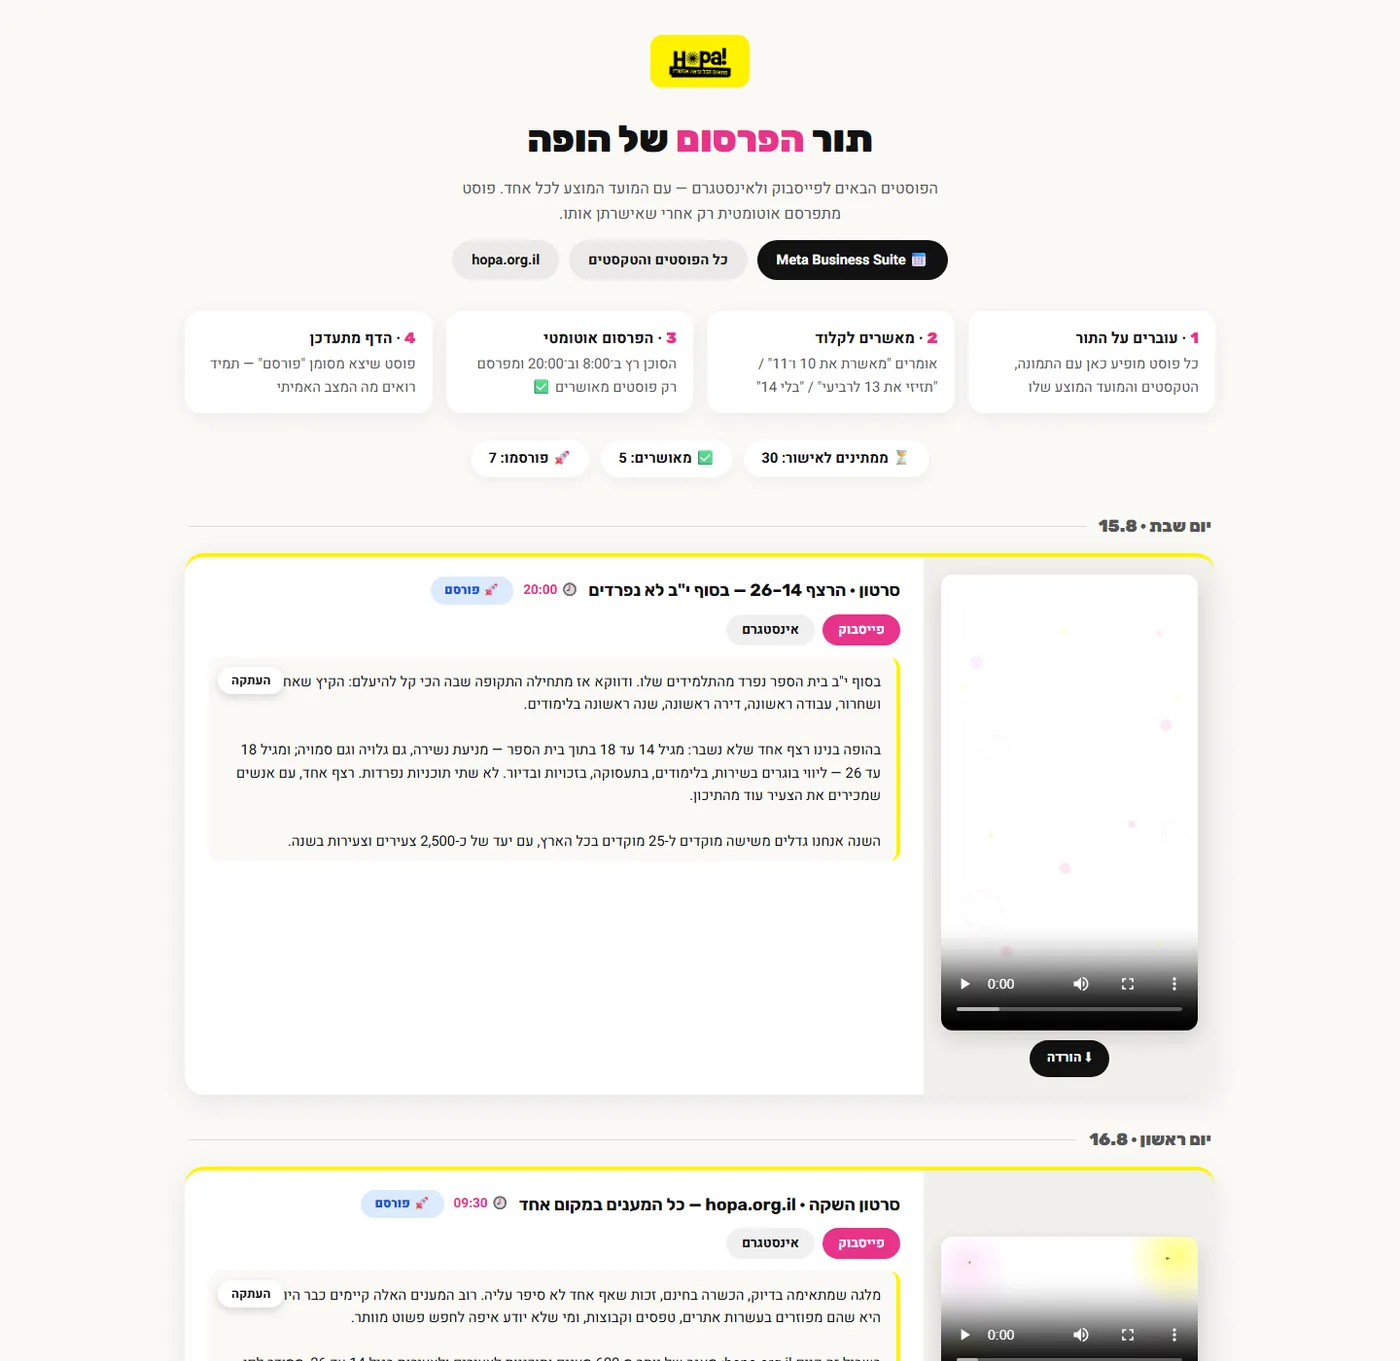
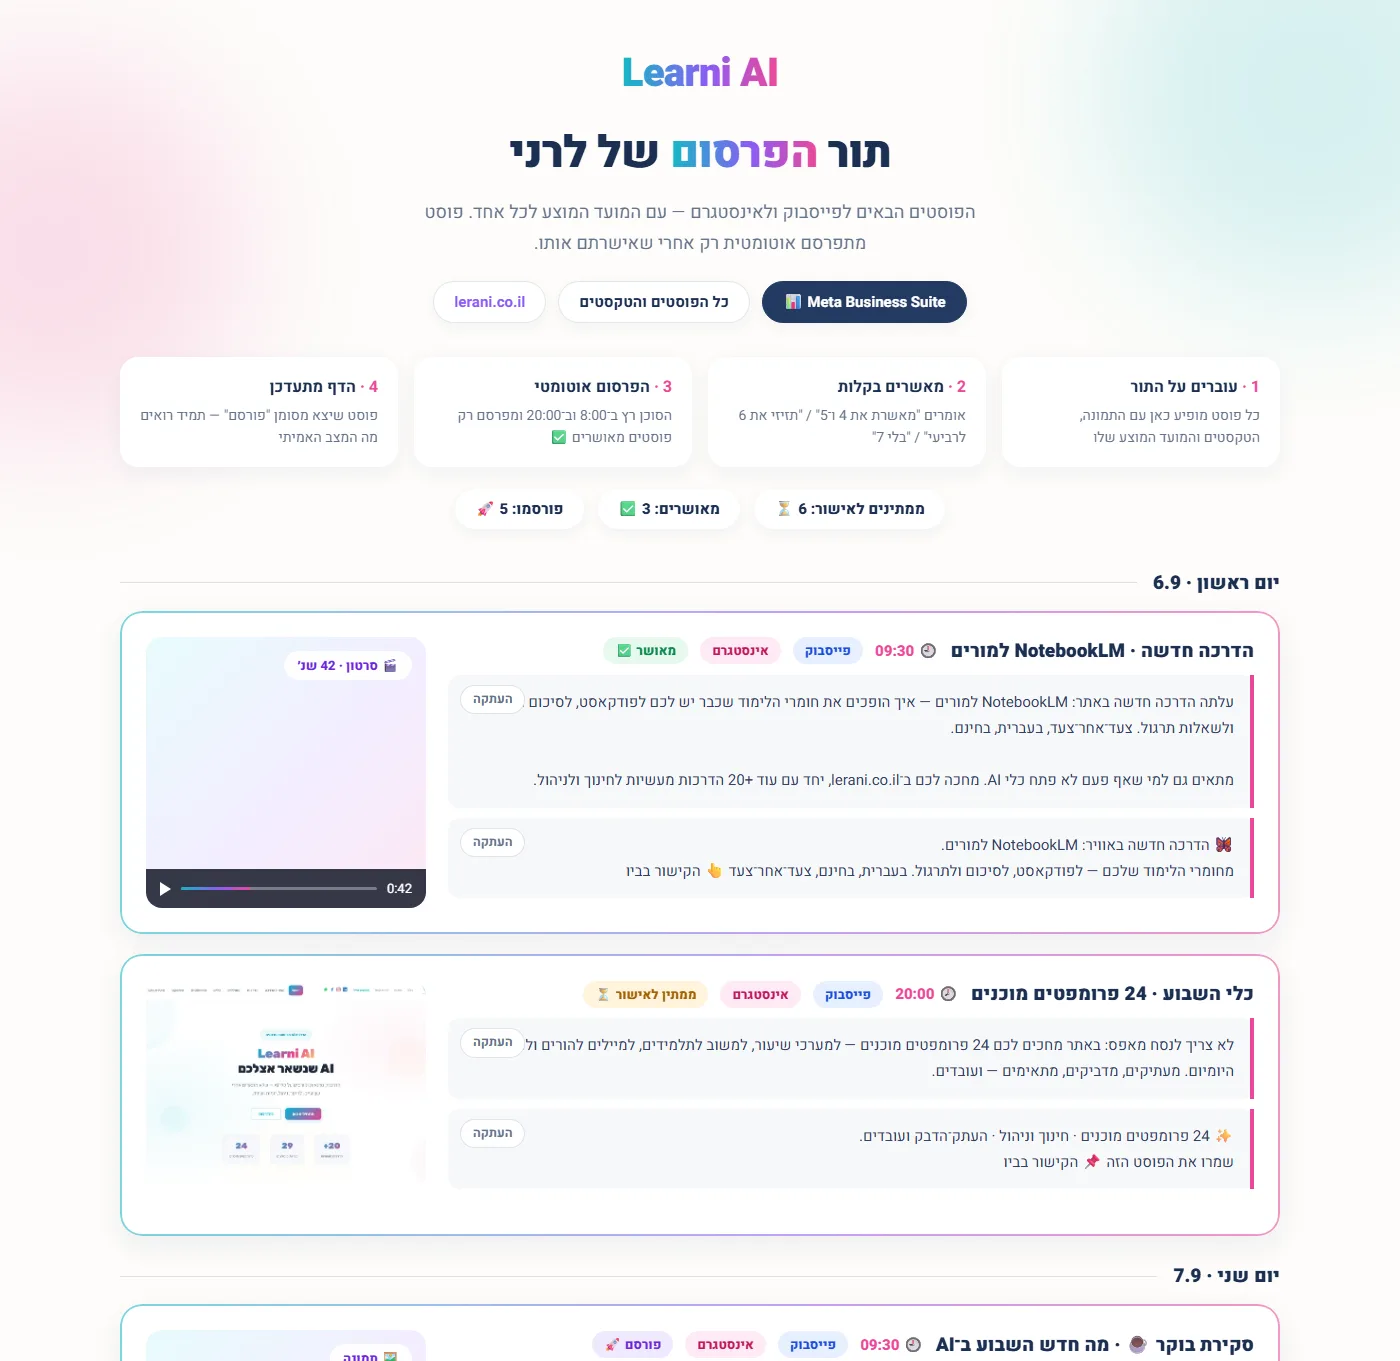
fix(scheduler): דוגמת Learni AI במקום הופה — בכל האתר
- שלושת צילומי המסך של תזמון פוסטים הוחלפו בתור פרסום ממותג Learni AI
  (lerani.co.il) — אין יותר תוכן/לוגו של הופה באתר.
- טקסטים בדף המוצר עודכנו בהתאם, וללא אזכור הופה.
- נוסף חיבור לערכת המותג הארגונית (קישור לחוות האפליקציות).
- README: מיטל אישרה את הכלל — הופה לא מופיעה באתר אלא באישור מפורש שלה.

diff --git a/site/products/scheduler.html b/site/products/scheduler.html
@@ -42,7 +42,7 @@
     <figure class="pshot tall">
       <img src="../../public/products/scheduler/full.webp" alt="תור הפרסום — הפוסטים הבאים עם תמונה, טקסט ומועד">
     </figure>
-    <p class="pcap">תור הפרסום של הופה — כל פוסט עם המדיה, הטקסט והמועד המוצע שלו</p>
+    <p class="pcap">תור הפרסום — כל פוסט עם המדיה, הטקסט והמועד המוצע שלו. בדוגמה: התור של Learni AI, מותג ההדרכות שלנו</p>
   </div>
 </header>
 
@@ -51,7 +51,7 @@
     <div class="psec-head">
       <div class="psec-label">מה המערכת עושה</div>
       <h2>הפוסט כבר מוכן — <em>נשאר רק לאשר</em></h2>
-      <p class="psec-sub">הכלי הזה נבנה עבור הופה, תוכנית לליווי צעירים. הוא מנהל תור פרסום חי לשתי רשתות, עם מדיה, טקסטים ומועדים.</p>
+      <p class="psec-sub">המערכת מנהלת תור פרסום חי לשתי רשתות, עם מדיה, טקסטים ומועדים. בדוגמאות כאן: התור של Learni AI — מותג ההדרכות שלנו, lerani.co.il.</p>
     </div>
     <div class="pgrid"><article class="pcard">
         <div class="ptile" aria-hidden="true">📅</div>
@@ -84,7 +84,7 @@
     </div>
     <div class="pgal"><figure>
         <div class="pshot"><img src="../../public/products/scheduler/posts.webp" alt="כרטיס פוסט — הכל במקום אחד" loading="lazy"></div>
-        <figcaption><b>כרטיס פוסט — הכל במקום אחד</b> — לכל פוסט: היום והשעה, הסרטון או התמונה, הטקסט לפייסבוק והטקסט לאינסטגרם בנפרד, כפתור העתקה, וסימון &quot;פורסם&quot; ברגע שהוא יצא.</figcaption>
+        <figcaption><b>כרטיס פוסט — הכל במקום אחד</b> — לכל פוסט: היום והשעה, הסרטון או התמונה, הטקסט לפייסבוק והטקסט לאינסטגרם בנפרד, כפתור העתקה, וסטטוס חי: ממתין לאישור · מאושר · פורסם.</figcaption>
       </figure>
       <figure>
         <div class="pshot"><img src="../../public/products/scheduler/queue.webp" alt="ארבעה שלבים ומונה אחד" loading="lazy"></div>
@@ -103,6 +103,7 @@
       <div>מנהלי ומנהלות שיווק בארגון קטן</div>
       <div>בתי ספר ורשתות חינוך</div>
       <div>כל מי שהתוכן מוכן ואין מי שילחץ פרסם</div></div>
+    <p class="psec-sub" style="margin-top:26px">תזמון הפוסטים משתלב גם כחלק מ<a href="apps-farm.html" style="color:var(--accent);font-weight:700">ערכת המותג הארגונית</a> — אותה שפה גרפית ואותם מסרים, מהלוגו ועד הפוסט המתוזמן.</p>
   </div>
 </section>
 

diff --git a/README_IMPACT_SO.md b/README_IMPACT_SO.md
@@ -13,6 +13,10 @@ Main brand rules:
   - 29.8.2026: Meytal was shown that rule and explicitly approved restoring the
     page, so the earlier "unless explicitly requested" wording stands. If the
     Hopa material needs to come down again, talk to Meytal and Liron first.
+  - 1.9.2026: Meytal confirmed the rule herself: Hopa must NOT appear anywhere
+    on this site unless she explicitly approves it. The post-scheduler product
+    page stays, but its demo screenshots and copy now use Learni AI
+    (lerani.co.il) — our own training brand — instead of Hopa.
 - Keep the fingerprint motif subtle, human, technological, and readable.
 - Keep brand colors: navy, turquoise, fuchsia, with light supporting tones.
 
